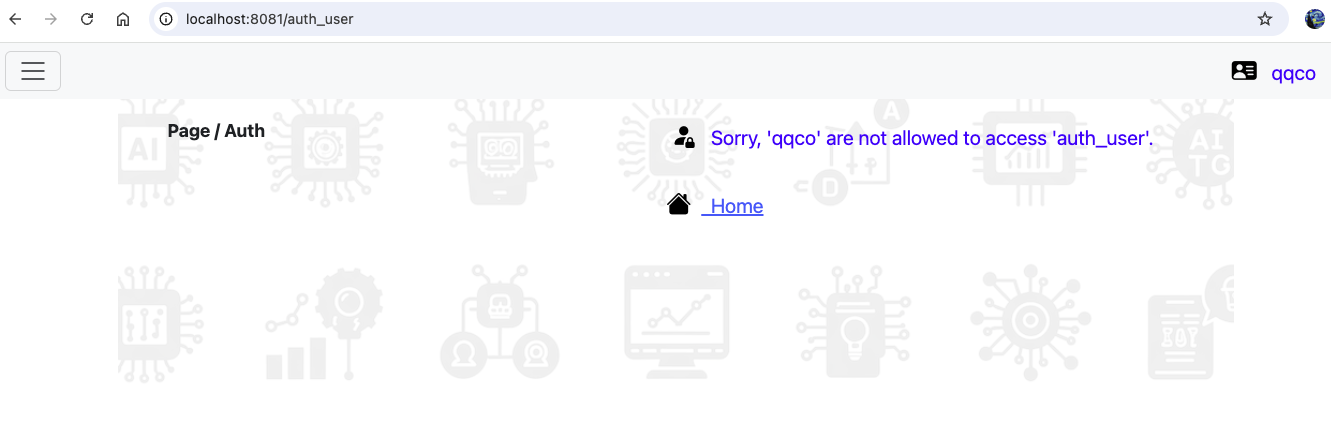
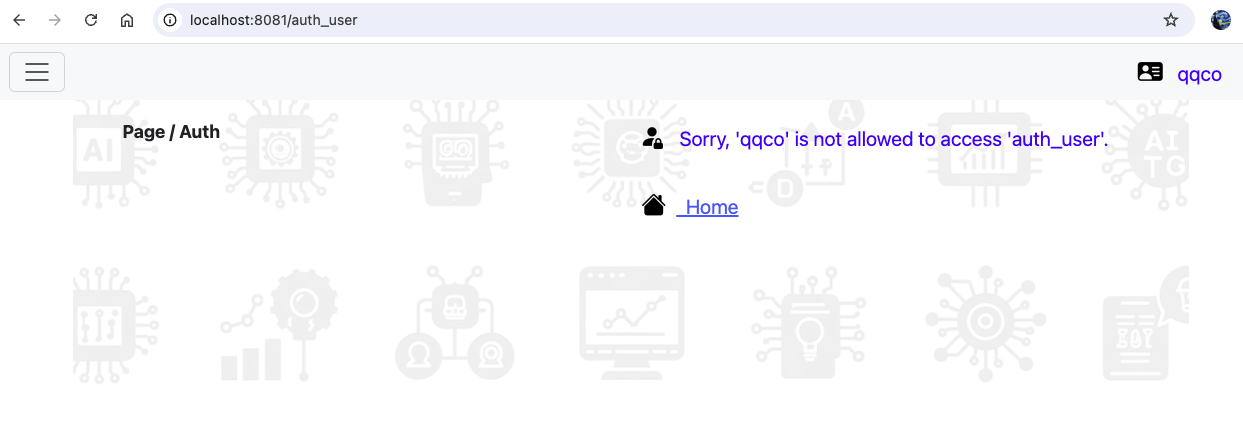
New add docker-files

diff --git a/frontend-app/src/views/PageAuthUser.vue b/frontend-app/src/views/PageAuthUser.vue
@@ -16,10 +16,10 @@
               <div v-if="isAccessiable === false">
                 <div>
                   <i class="bi bi-person-fill-lock"></i>
-                  Sorry, '{{ userName }}' are not allowed to access '{{ api_gate }}'.
+                  Sorry, '{{ userName }}' is not allowed to access '{{ api_gate }}'.
                 </div>
                 <br>
-                <div style="margin-right: 390px">
+                <div style="margin-right: 370px">
                   <router-link :to="{ name: 'home' }"><i class="bi bi-house-fill"></i>&nbsp;&nbsp;Home</router-link>
                 </div>
               </div>

diff --git a/frontend-app/src/views/PageTestPage.vue b/frontend-app/src/views/PageTestPage.vue
@@ -15,7 +15,7 @@
                 <div v-if="isAccessiable === false">                 
                   <div>
                     <i class="bi bi-person-fill-lock"></i>
-                    Sorry, '{{ userName }}' are not allowed to access '{{ api_gate }}'.
+                    Sorry, '{{ userName }}' is not allowed to access '{{ api_gate }}'.
                   </div>
                   <br>
                   <div style="margin-right: 380px">

diff --git a/frontend-app/src/views/PageDataStatus.vue b/frontend-app/src/views/PageDataStatus.vue
@@ -16,7 +16,7 @@
               <div v-if="isAccessiable === false">
                 <div>
                   <i class="bi bi-person-fill-lock"></i>
-                  Sorry, '{{ userName }}' are not allowed to access '{{ api_gate }}'.
+                  Sorry, '{{ userName }}' is not allowed to access '{{ api_gate }}'.
                 </div>
                 <br>
                 <div style="margin-right: 405px">

diff --git a/frontend-app/src/views/PageFinancialInfo.vue b/frontend-app/src/views/PageFinancialInfo.vue
@@ -16,7 +16,7 @@
               <div v-if="isAccessiable === false">
                 <div>
                   <i class="bi bi-person-fill-lock"></i>
-                  Sorry, '{{ userName }}' are not allowed to access '{{ api_gate }}'.
+                  Sorry, '{{ userName }}' is not allowed to access '{{ api_gate }}'.
                 </div>
                 <br>
                 <div style="margin-right: 415px">
